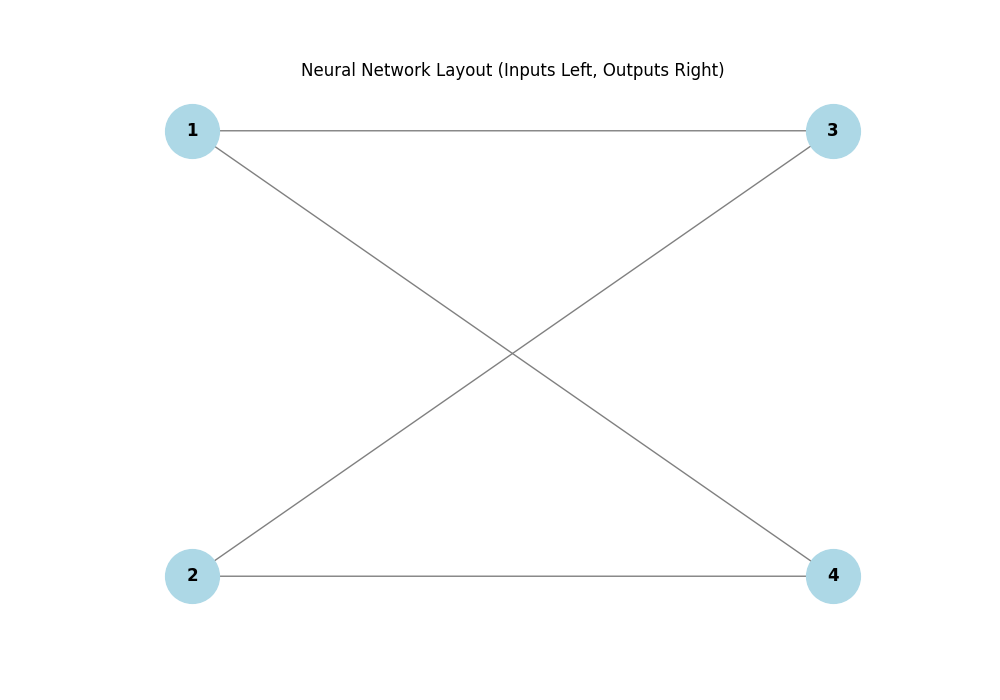
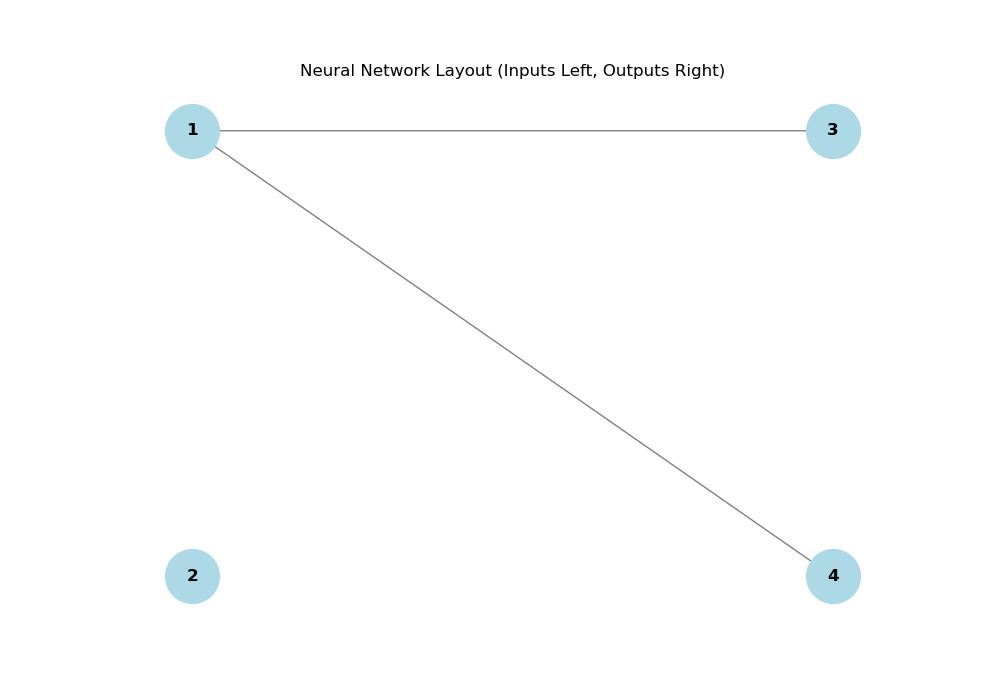
testing the mutations. some problem

Changed region(s): [[0.279, 0.09, 0.589, 0.12], [0.62, 0.09, 0.744, 0.12]]

diff --git a/Framework/GOD.py b/Framework/GOD.py
@@ -28,14 +28,16 @@ class GOD:
 		done = False
 		while not done:
 			node1, node2 = random.sample(genome.nodes, 2)
-			if (node1.id, node2.id) in globals.map: # If these nodes have a innov number already
+			if ((node1.type == Globals.Type.OUTPUT and node2.type == Globals.Type.OUTPUT) or (node1.type == Globals.Type.INPUT and node2.type == Globals.Type.INPUT)):
+				continue
+			if (node1.id, node2.id) in globals.connection_map: # If these nodes have a innov number already
 				if (node1.id, node2.id) in [(c.IN.id, c.OUT.id) for c in genome.connections]: # If these nodes have a connection already
 					continue
 				genome.connections.append(ConnectGene(node1, node2, weight, True, globals.map[(node1.id, node2.id)]))
 			else:
 				globals.innov_num += 1 # Create a new innov number
 				genome.connections.append(ConnectGene(node1, node2, weight, True, globals.innov_num))
-				globals.map[(node1.id, node2.id)] = globals.innov_num
+				globals.connection_map[(node1.id, node2.id)] = globals.innov_num
 			done = True
 
 	def mutate_add_node(globals: Globals, genome: Genome):

diff --git a/Framework/NN.py b/Framework/NN.py
@@ -137,7 +137,7 @@ class NN(torch.nn.Module):
 				return node.activation
 			
 			node.activation = torch.Tensor([0.0])
-			print(self.revadjacencylist[node.id])
+			# print(self.revadjacencylist[node.id])
 			for conn in self.revadjacencylist[node.id]:
 				if conn.enabled:
 					node.activation += get_activation(conn.IN) * conn.weight

diff --git a/Framework/NNtest.py b/Framework/NNtest.py
@@ -9,6 +9,10 @@ my_creature = Universe.genomes[0]
 GOD.mutate_add_connection(Universe, my_creature)
 
 my_creature.draw_network()
+GOD.mutate_add_connection(Universe, my_creature)
+# GOD.mutate_add_node(Universe, my_creature)
+# GOD.mutate_add_node(Universe, my_creature)
+my_creature.draw_network()
 
 my_creaturenn = NN(my_creature)
 

diff --git a/Framework/utils.py b/Framework/utils.py
@@ -26,7 +26,7 @@ class Globals:
 		self.output_features = output_features
 		self.connection_map = {}
 		self.node_map = {}
-		self.innovation_number = 0
+		self.innov_num = 0
 		self.genomes = []
 		self.population = 0
 		self.nodes = []
